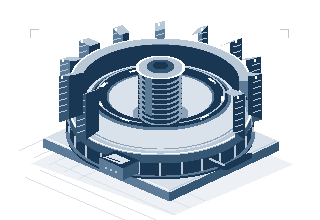
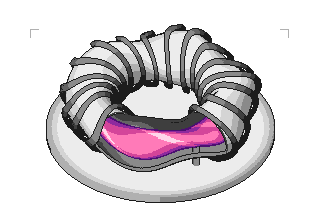
Redraw the reactor as a stellarator, monochrome except the plasma
A twisted, donut-shaped vessel (five-period rotating cross-section) wrapped in
non-planar coils, cut open at the front. The machine is drawn in greys with
black pixel outlines; only the forming plasma is coloured. Rendered through a
small depth buffer so the twisted 3D shape occludes correctly. The exporter now
quantises to the renderer's exact 13-colour palette (lossless). Alt text and
README updated to describe the new design.

Claude-Session: https://claude.ai/code/session_01ENcTUxHBpQ5TtgivYtFfuM

diff --git a/code/fusion-reactor-renderer.js b/code/fusion-reactor-renderer.js
@@ -1,157 +1,185 @@
-/* A small, hand-drawn pixel scene. All geometry uses the same low-resolution
-   isometric space; CSS enlarges the pixels without smoothing. */
+/* A small pixel-art stellarator. A twisted torus (the cross-section is an ellipse that
+   rotates five times around the ring), wrapped in non-planar modular coils and cut open
+   at the front to show the plasma. Everything is drawn into a low-resolution depth
+   buffer and shaded in a few flat steps; only the plasma has colour. */
 (() => {
   "use strict";
   const canvas = document.querySelector("#fusion-reactor");
   if (!canvas) return;
   const ctx = canvas.getContext("2d");
   if (!ctx) return;
-  const ink = getComputedStyle(canvas).getPropertyValue("--navy").trim() || "#193653";
-  const colors = ["#ffffff", "#edf1f5", "#d9e2ea", "#b8c8d7", "#8ca3ba", "#5c7b98", "#365774", ink];
-  const TAU = Math.PI * 2;
+  const W = 320, H = 220, TAU = Math.PI * 2;
 
-  function box(x, y, w, h, color) {
-    ctx.fillStyle = color;
-    ctx.fillRect(Math.round(x), Math.round(y), w, h);
+  // Greys for the machine (light -> dark), magentas for the plasma (dim -> hot).
+  const GREY = ["#ffffff", "#ececec", "#d4d4d4", "#b0b0b0", "#8a8a8a", "#646464", "#3e3e3e", "#1c1c1c"];
+  const PLASMA = ["#4a1070", "#8e2a9e", "#d4459a", "#ff7ab8", "#ffd6ea"];
+  const PALETTE = GREY.concat(PLASMA);
+  const RGB = PALETTE.map(h => [1, 3, 5].map(i => parseInt(h.slice(i, i + 2), 16)));
+  const INK = 7, BG = 0;
+
+  // Geometry (machine units) and a fixed three-quarter view from above.
+  const R0 = 1.0, NP = 5;                      // major radius, field periods
+  const VA = 0.38, VB = 0.28;                  // vessel cross-section semi-axes
+  const PA = 0.22, PB = 0.13;                  // plasma cross-section semi-axes
+  const EL = 38 * Math.PI / 180, AZ = -18 * Math.PI / 180;
+  const SC = 70, CX = 160, CY = 100;
+  const LIGHT = norm([-0.45, 0.35, 0.82]);
+  const CUT = 44 * Math.PI / 180;              // half-width of the front cutaway (vessel)
+  const COIL_CUT = 30 * Math.PI / 180;         // coils are removed over a narrower window
+
+  const depth = new Float32Array(W * H), color = new Uint8Array(W * H), obj = new Uint8Array(W * H);
+  const OBJ = { none: 0, base: 1, vessel: 2, coil: 3, plasma: 4, leg: 5 };
+
+  function norm(v) { const n = Math.hypot(...v); return v.map(x => x / n); }
+  function dot(a, b) { return a[0] * b[0] + a[1] * b[1] + a[2] * b[2]; }
+
+  // world -> [screen x, screen y, depth]; larger depth is nearer the viewer.
+  function project(x, y, z) {
+    const x1 = x * Math.cos(AZ) - y * Math.sin(AZ);
+    const y1 = x * Math.sin(AZ) + y * Math.cos(AZ);
+    return [CX + x1 * SC, CY + (y1 * Math.sin(EL) - z * Math.cos(EL)) * SC, y1 * Math.cos(EL) + z * Math.sin(EL)];
+  }
+  // unit vector from the scene towards the camera, in world coordinates
+  const VIEW = norm([Math.cos(EL) * Math.sin(AZ), Math.cos(EL) * Math.cos(AZ), Math.sin(EL)]);
+
+  function plot(p, c, o) {
+    const x = Math.round(p[0]), y = Math.round(p[1]);
+    if (x < 0 || y < 0 || x >= W || y >= H) return;
+    const i = y * W + x;
+    if (p[2] > depth[i]) { depth[i] = p[2]; color[i] = c; obj[i] = o; }
   }
 
-  // Scanline polygons and integer lines keep every edge on the pixel grid.
-  function polygon(points, color) {
-    const min = Math.ceil(Math.min(...points.map(p => p[1])));
-    const max = Math.ceil(Math.max(...points.map(p => p[1])));
-    for (let y = min; y < max; y++) {
-      const intersections = [];
-      for (let i = 0; i < points.length; i++) {
-        const a = points[i], b = points[(i + 1) % points.length];
-        if ((a[1] <= y && b[1] > y) || (b[1] <= y && a[1] > y)) {
-          intersections.push(a[0] + (y - a[1]) * (b[0] - a[0]) / (b[1] - a[1]));
+  // Flat pixel-art shading: Lambert term quantised to a few grey steps.
+  function shade(n, bright, dark) {
+    const l = Math.max(0, dot(n, LIGHT));
+    const k = l > .75 ? 0 : l > .5 ? 1 : l > .28 ? 2 : 3;
+    return Math.min(dark, bright + k);
+  }
+
+  // Point on the twisted surface: ellipse (a, b) rotated by alpha = NP*phi/2 around the
+  // magnetic axis, which itself bobs slightly up and down with the field period.
+  function surface(phi, th, a, b) {
+    const al = NP * phi / 2;
+    const u = a * Math.cos(th) * Math.cos(al) - b * Math.sin(th) * Math.sin(al);
+    const v = a * Math.cos(th) * Math.sin(al) + b * Math.sin(th) * Math.cos(al);
+    const nu0 = Math.cos(th) / a, nv0 = Math.sin(th) / b;      // ellipse normal, local frame
+    const nu = nu0 * Math.cos(al) - nv0 * Math.sin(al), nv = nu0 * Math.sin(al) + nv0 * Math.cos(al);
+    const R = R0 + u, z = v + 0.035 * Math.sin(NP * phi);
+    return { p: [R * Math.cos(phi), R * Math.sin(phi), z], n: norm([nu * Math.cos(phi), nu * Math.sin(phi), nv]) };
+  }
+
+  // Toroidal angle of a point measured from the direction facing the viewer.
+  const FRONT = Math.atan2(Math.cos(AZ), Math.sin(AZ)); // world phi that faces the camera
+  function fromFront(phi) { let d = (phi - FRONT) % TAU; if (d > Math.PI) d -= TAU; if (d < -Math.PI) d += TAU; return Math.abs(d); }
+
+  function base() {
+    // A low round plinth with a stepped rim, then six support legs up to the vessel.
+    for (let r = 0; r <= 1.62; r += 0.006) for (let t = 0; t < TAU; t += 0.004 / Math.max(r, 0.05)) {
+      const x = r * Math.cos(t), y = r * Math.sin(t);
+      plot(project(x, y, -0.5), r > 1.56 ? 3 : r > 1.48 ? 2 : 1, OBJ.base);
+    }
+    for (let h = 0; h <= 0.07; h += 0.004) for (let t = 0; t < TAU; t += 0.002) {
+      const p = project(1.62 * Math.cos(t), 1.62 * Math.sin(t), -0.5 - h);
+      plot(p, Math.cos(t + AZ) > 0 ? 4 : 3, OBJ.base);
+    }
+    for (let k = 0; k < 6; k++) {
+      const phi = k * TAU / 6 + 0.3;
+      for (let h = -0.5; h <= -0.16; h += 0.004) for (let t = 0; t < TAU; t += 0.25) {
+        const x = (R0 + 0.035 * Math.cos(t)) * Math.cos(phi) - 0.035 * Math.sin(t) * Math.sin(phi);
+        const y = (R0 + 0.035 * Math.cos(t)) * Math.sin(phi) + 0.035 * Math.sin(t) * Math.cos(phi);
+        plot(project(x, y, h), Math.cos(t) > 0 ? 4 : 5, OBJ.leg);
+      }
+    }
+  }
+
+  function vessel() {
+    for (let phi = 0; phi < TAU; phi += 0.0045) {
+      const cut = fromFront(phi) < CUT;
+      for (let th = 0; th < TAU; th += 0.024) {
+        const s = surface(phi, th, VA, VB);
+        // In the cutaway the upper, viewer-facing shell is removed; the lower front wall
+        // stays, so the plasma reads as sitting inside an open channel.
+        if (cut && dot(s.n, VIEW) > -0.15 && s.n[2] > -0.45) continue;
+        const inside = dot(s.n, VIEW) < 0;
+        plot(project(...s.p), inside ? shade(s.n.map(x => -x), 4, 6) : shade(s.n, 1, 4), OBJ.vessel);
+      }
+    }
+    // Cut edges: a thin dark rim where the shell was opened.
+    for (const edge of [FRONT - CUT, FRONT + CUT]) for (let th = 0; th < TAU; th += 0.01) {
+      const s = surface(edge, th, VA, VB);
+      if (dot(s.n, VIEW) > -0.15 && s.n[2] > -0.45) plot(project(...s.p.map((v, i) => v + s.n[i] * 0.004)), 6, OBJ.vessel);
+    }
+  }
+
+  function coils() {
+    // Modular, non-planar coils: each loop wobbles in toroidal angle as it goes round.
+    const N = 20;
+    for (let k = 0; k < N; k++) {
+      const phi0 = (k + 0.5) * TAU / N;
+      if (fromFront(phi0) < COIL_CUT) continue;
+      for (let th = 0; th < TAU; th += 0.006) {
+        const phi = phi0 + 0.07 * Math.sin(2 * th + k * 1.3);
+        for (let w = -0.022; w <= 0.022; w += 0.011) for (let g = 1.12; g <= 1.24; g += 0.04) {
+          const s = surface(phi + w, th, VA * g, VB * g + 0.03);
+          plot(project(...s.p), shade(s.n, 4, 7), OBJ.coil);
         }
       }
-      intersections.sort((a, b) => a - b);
-      for (let i = 0; i + 1 < intersections.length; i += 2) {
-        box(Math.ceil(intersections[i]), y, Math.ceil(intersections[i + 1]) - Math.ceil(intersections[i]), 1, color);
+    }
+  }
+
+  function plasma(time) {
+    // "Forming" plasma: the column breathes, and bright filaments stream along the
+    // twisted field lines (helical phase 2*theta - NP*phi keeps the pattern periodic).
+    const pulse = (Math.sin(time * TAU / 3.6) + 1) / 2;
+    const g = 0.86 + 0.14 * pulse;
+    for (let phi = 0; phi < TAU; phi += 0.004) for (let th = 0; th < TAU; th += 0.03) {
+      const s = surface(phi, th, PA * g, PB * g);
+      const facing = Math.max(0, dot(s.n, VIEW));
+      const stripe = Math.sin(2 * th - NP * phi + 3 * phi - time * TAU / 3.6 * 2);
+      let c = facing > .82 ? 3 : facing > .55 ? 2 : facing > .25 ? 1 : 0;
+      if (stripe > 0.86) c = Math.min(4, c + 1 + (pulse > .5 ? 1 : 0));
+      if (pulse > .8 && facing > .9) c = 4;
+      plot(project(...s.p), GREY.length + c, OBJ.plasma);
+    }
+  }
+
+  function outline() {
+    // Pixel-art ink line on the far side of every silhouette and depth step.
+    const out = color.slice();
+    for (let y = 0; y < H; y++) for (let x = 0; x < W; x++) {
+      const i = y * W + x;
+      for (const [dx, dy] of [[1, 0], [-1, 0], [0, 1], [0, -1]]) {
+        const X = x + dx, Y = y + dy;
+        if (X < 0 || Y < 0 || X >= W || Y >= H) continue;
+        const j = Y * W + X;
+        if (obj[j] === OBJ.none || obj[j] === obj[i] && Math.abs(depth[j] - depth[i]) < 0.06) continue;
+        if (depth[j] > depth[i] + 0.02 || obj[i] === OBJ.none) {
+          out[i] = obj[j] === OBJ.plasma ? GREY.length : INK;
+          break;
+        }
       }
     }
-  }
-
-  function line(a, b, color, width = 1) {
-    const steps = Math.max(Math.abs(b[0] - a[0]), Math.abs(b[1] - a[1]));
-    for (let i = 0; i <= steps; i++) {
-      const t = steps ? i / steps : 0;
-      box(a[0] + (b[0] - a[0]) * t, a[1] + (b[1] - a[1]) * t, width, width, color);
-    }
-  }
-
-  function ellipsePoint(angle, rx, ry, y = 100) {
-    return [160 + Math.cos(angle) * rx, y + Math.sin(angle) * ry];
-  }
-
-  function ring(rx, ry, thickness, y, color, start = 0, end = TAU) {
-    const points = [];
-    const steps = Math.ceil((end - start) * 24);
-    for (let i = 0; i <= steps; i++) points.push(ellipsePoint(start + (end - start) * i / steps, rx, ry, y));
-    for (let i = steps; i >= 0; i--) points.push(ellipsePoint(start + (end - start) * i / steps, rx - thickness, ry - thickness * .48, y));
-    polygon(points, color);
-  }
-
-  function wall(rx, ry, y, height, color, start = 0, end = Math.PI) {
-    const points = [];
-    for (let a = start; a <= end + .001; a += (end - start) / 64) points.push(ellipsePoint(a, rx, ry, y));
-    for (let a = end; a >= start - .001; a -= (end - start) / 64) points.push(ellipsePoint(a, rx, ry, y + height));
-    polygon(points, color);
-  }
-
-  function coil(angle, front) {
-    const outer = ellipsePoint(angle, 98, 46, 91);
-    const inner = ellipsePoint(angle, 83, 38, 91);
-    const [x, y] = outer;
-    const cap = [[x - 5, y - 22], [x + 5, y - 25], [inner[0] + 5, inner[1] - 25], [inner[0] - 5, inner[1] - 22]];
-    polygon([[x - 5, y - 22], [x + 5, y - 25], [x + 5, y + 21], [x - 5, y + 24]], colors[front ? 6 : 5]);
-    polygon([[x + 5, y - 25], [inner[0] + 5, inner[1] - 25], [inner[0] + 5, inner[1] + 17], [x + 5, y + 21]], colors[7]);
-    polygon(cap, colors[3]);
-    for (let j = 0; j < 6; j++) line([x - 4, y - 16 + j * 6], [x + 3, y - 18 + j * 6], colors[3]);
-    box(x - 2, y - 22, 2, 3, colors[0]);
+    color.set(out);
   }
 
   function draw(time) {
-    ctx.clearRect(0, 0, 320, 220);
-    box(0, 0, 320, 220, colors[0]);
-    const pulse = (Math.sin(time * TAU / 3.6) + 1) / 2;
-
-    // Ground and the three faces of the reactor's isometric plinth.
-    polygon([[31, 163], [153, 106], [293, 164], [173, 215]], colors[1]);
-    for (let i = -2; i <= 2; i++) {
-      line([49 + i * 15, 164 + i * 7], [166 + i * 15, 111 + i * 7], colors[2]);
-      line([55 + i * 15, 163 - i * 7], [174 + i * 15, 214 - i * 7], colors[2]);
+    depth.fill(-1e9); color.fill(BG); obj.fill(OBJ.none);
+    base(); vessel(); coils(); plasma(time); outline();
+    const img = ctx.createImageData(W, H);
+    for (let i = 0; i < W * H; i++) {
+      const c = RGB[color[i]];
+      img.data[4 * i] = c[0]; img.data[4 * i + 1] = c[1]; img.data[4 * i + 2] = c[2]; img.data[4 * i + 3] = 255;
     }
-    polygon([[43, 147], [153, 96], [279, 150], [169, 201]], colors[7]);
-    polygon([[43, 138], [153, 87], [279, 141], [169, 192]], colors[2]);
-    polygon([[43, 138], [169, 192], [169, 201], [43, 147]], colors[5]);
-    polygon([[169, 192], [279, 141], [279, 150], [169, 201]], colors[6]);
-    line([47, 138], [169, 190], colors[0]);
-    line([169, 190], [275, 141], colors[3]);
-
-    // Lower vacuum vessel, inset panels, and the rear containment magnets.
-    wall(94, 44, 115, 20, colors[7]);
-    ring(94, 44, 94, 115, colors[4]);
-    for (let a = .2; a < Math.PI; a += .23) {
-      const p = ellipsePoint(a, 94, 44, 118);
-      line(p, [p[0], p[1] + 12], colors[3], 2);
-    }
-    ring(95, 45, 4, 132, colors[5], 0, Math.PI);
-    for (let a = Math.PI + .22; a < TAU; a += .45) coil(a, false);
-    wall(91, 43, 81, 30, colors[5], Math.PI, TAU);
-    ring(91, 43, 12, 81, colors[3], Math.PI, TAU);
-    ring(91, 43, 2, 80, colors[0], Math.PI, TAU);
-    wall(79, 37, 81, 27, colors[7], Math.PI, TAU);
-    ring(86, 40, 58, 113, colors[2]);
-    ring(82, 38, 2, 111, colors[4]);
-
-    // A dark, saturated plasma torus. Its halo breathes in discrete shades;
-    // bright packets circulate along the field, with no blur or gradients.
-    ring(75, 35, 22, 98, colors[pulse > .55 ? 3 : 2]);
-    ring(71, 33, 19, 97, colors[pulse > .35 ? 5 : 4]);
-    ring(68, 31, 12 + Math.round(pulse * 3), 96, colors[7]);
-    ring(65, 30, 2, 94, colors[pulse > .7 ? 0 : 3]);
-    for (let i = 0; i < 9; i++) {
-      const angle = (time * TAU * 4 / (9 * 3.6) + i * TAU / 9) % TAU;
-      ring(64, 29, 3, 96, colors[0], angle, angle + .16);
-      const p = ellipsePoint(angle + .18, 62, 28, 96);
-      box(p[0], p[1], 2, 2, colors[3]);
-    }
-
-    // Central solenoid, drawn over the back of the plasma for depth.
-    wall(22, 11, 67, 49, colors[7]);
-    for (let y = 74; y < 116; y += 5) ring(22, 11, 3, y, colors[4], 0, Math.PI);
-    polygon([[145, 67], [152, 70], [152, 116], [145, 113]], colors[5]);
-    ring(25, 12, 25, 67, colors[3]);
-    ring(25, 12, 3, 67, colors[0]);
-    ring(14, 7, 14, 66, colors[6]);
-    ring(8, 4, 8, 65, colors[7]);
-
-    // The front is cut away so the pulsing plasma remains visible.
-    wall(91, 43, 112, 8, colors[6]);
-    ring(91, 43, 9, 112, colors[3], 0, Math.PI);
-    ring(91, 43, 2, 111, colors[0], 0, Math.PI);
-    for (const a of [.15, .63, 2.51, 2.99]) coil(a, true);
-
-    // Service pipe and a miniature control console on the plinth.
-    line([208, 158], [223, 165], colors[7], 5);
-    line([223, 165], [247, 153], colors[7], 5);
-    line([209, 158], [223, 164], colors[3], 2);
-    polygon([[99, 157], [115, 150], [139, 160], [123, 168]], colors[7]);
-    polygon([[99, 157], [123, 168], [123, 180], [99, 170]], colors[5]);
-    polygon([[123, 168], [139, 160], [139, 172], [123, 180]], colors[6]);
-    polygon([[103, 157], [114, 153], [130, 160], [120, 164]], colors[2]);
-    line([107, 157], [119, 161], colors[7]);
-    for (let i = 0; i < 3; i++) box(105 + i * 5, 167 + i * 2, 2, 2, colors[pulse > .6 ? 0 : 3]);
+    ctx.putImageData(img, 0, 0);
     // Quiet registration marks make the drawing feel like a printed plate.
-    for (const [x, y, sign] of [[30, 29, 1], [288, 29, -1]]) {
-      line([x, y], [x + sign * 8, y], colors[3]);
-      line([x, y], [x, y + 8], colors[3]);
+    ctx.fillStyle = GREY[3];
+    for (const [x, sign] of [[30, 1], [288, -1]]) {
+      ctx.fillRect(Math.min(x, x + sign * 8), 29, 9, 1);
+      ctx.fillRect(x, 29, 1, 9);
     }
   }
 
+  window.REACTOR_PALETTE = PALETTE;
   window.drawFusionReactor = draw;
   draw(0);
 })();

diff --git a/index.html b/index.html
@@ -18,7 +18,7 @@
         <picture>
           <source srcset="assets/fusion-reactor.gif" media="(prefers-reduced-motion: no-preference)">
           <img id="fusion-reactor" src="assets/fusion-reactor.png" width="320" height="220"
-            alt="An isometric pixel-art fusion reactor in shades of navy, with plasma pulsing inside its open toroidal chamber.">
+            alt="A pixel-art stellarator in black, white and grey: a twisted, donut-shaped vessel wrapped in wavy coils, cut open at the front to show glowing pink plasma forming inside.">
         </picture>
       </div>
       <figcaption><span>MAGNETIC CONFINEMENT <span aria-hidden="true">/</span> 01</span>

diff --git a/code/render-fusion-reactor.py b/code/render-fusion-reactor.py
@@ -15,9 +15,9 @@ frames = []
 with sync_playwright() as p:
     browser = p.chromium.launch()
     page = browser.new_page()
-    page.set_content('<canvas id="fusion-reactor" width="320" height="220" '
-                     'style="--navy:#193653"></canvas>')
+    page.set_content('<canvas id="fusion-reactor" width="320" height="220"></canvas>')
     page.add_script_tag(path=str(ROOT / "code/fusion-reactor-renderer.js"))
+    palette_hex = page.evaluate("window.REACTOR_PALETTE")
     for frame in range(45):
         data = page.evaluate("""time => {
             window.drawFusionReactor(time);
@@ -27,8 +27,10 @@ with sync_playwright() as p:
     browser.close()
 
 frames[0].save(ROOT / "assets/fusion-reactor.png")
-# A shared palette preserves the eight original shades without dithering.
-palette = frames[0].quantize(colors=8, dither=Image.Dither.NONE)
+# The renderer only ever writes its own palette (greys + plasma), so quantising to exactly
+# those colours is lossless and keeps every frame on the same palette, without dithering.
+rgb = [int(h[i:i + 2], 16) for h in palette_hex for i in (1, 3, 5)]
+palette = Image.new("P", (1, 1)); palette.putpalette(rgb + rgb[:3] * (256 - len(palette_hex)))
 frames = [frame.quantize(palette=palette, dither=Image.Dither.NONE) for frame in frames]
 output = ROOT / "assets/fusion-reactor.gif"
 frames[0].save(output, save_all=True, append_images=frames[1:],

diff --git a/build.py b/build.py
@@ -260,7 +260,7 @@ def build_index():
         <picture>
           <source srcset="assets/fusion-reactor.gif" media="(prefers-reduced-motion: no-preference)">
           <img id="fusion-reactor" src="assets/fusion-reactor.png" width="320" height="220"
-            alt="An isometric pixel-art fusion reactor in shades of navy, with plasma pulsing inside its open toroidal chamber.">
+            alt="A pixel-art stellarator in black, white and grey: a twisted, donut-shaped vessel wrapped in wavy coils, cut open at the front to show glowing pink plasma forming inside.">
         </picture>
       </div>
       <figcaption><span>MAGNETIC CONFINEMENT <span aria-hidden="true">/</span> 01</span>

diff --git a/README.md b/README.md
@@ -14,8 +14,9 @@ thin rules, and muted ochre tags.
 
 The landing page (`index.html`) is organized into themed sections. Each post is a
 self-contained HTML page under `posts/` with the original narrative, math and code.
-Its header includes a monochrome, isometric pixel-art fusion reactor with pulsing
-plasma, delivered as a looping GIF. The animation has a pause control, respects
+Its header includes a pixel-art stellarator (a twisted, donut-shaped fusion reactor
+wrapped in wavy coils) in black, white and grey, with only the forming plasma in
+colour, delivered as a looping GIF. The animation has a pause control, respects
 reduced-motion preferences, and switches to a still while offscreen. Without
 JavaScript, the GIF plays unless the reader prefers reduced motion.
 
